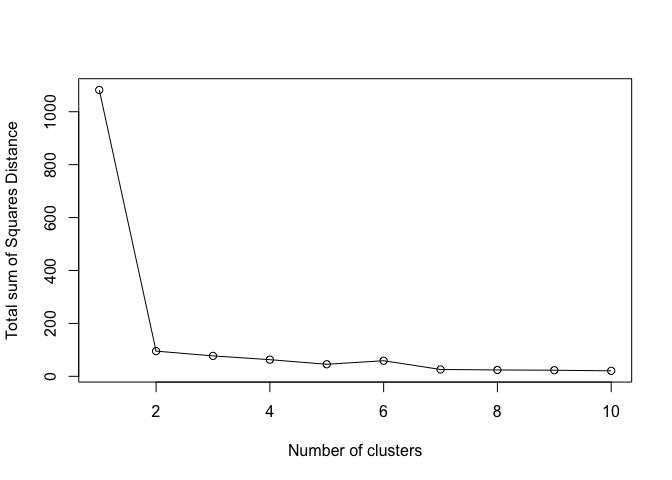
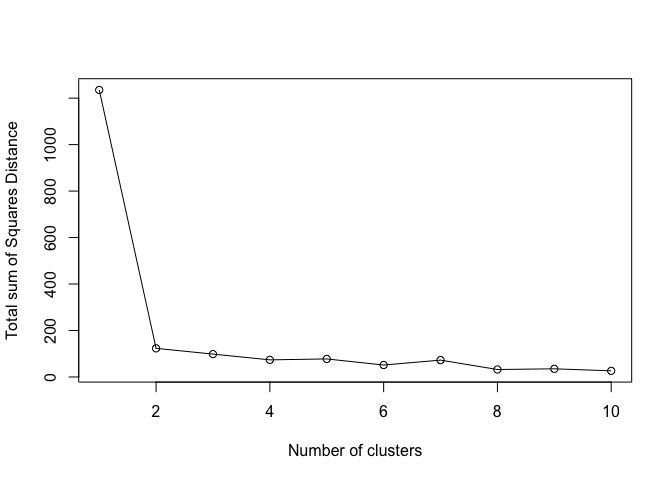
Add some GFM for Github

diff --git a/class07/class07.md b/class07/class07.md
@@ -63,16 +63,16 @@ km
 
     Cluster means:
               x         y
-    1  2.936122 -2.799761
-    2 -2.799761  2.936122
+    1 -2.963111  3.125384
+    2  3.125384 -2.963111
 
     Clustering vector:
-     [1] 2 2 2 2 2 2 2 2 2 2 2 2 2 2 2 2 2 2 2 2 2 2 2 2 2 2 2 2 2 2 1 1 1 1 1 1 1 1
-    [39] 1 1 1 1 1 1 1 1 1 1 1 1 1 1 1 1 1 1 1 1 1 1
+     [1] 1 1 1 1 1 1 1 1 1 1 1 1 1 1 1 1 1 1 1 1 1 1 1 1 1 1 1 1 1 1 2 2 2 2 2 2 2 2
+    [39] 2 2 2 2 2 2 2 2 2 2 2 2 2 2 2 2 2 2 2 2 2 2
 
     Within cluster sum of squares by cluster:
-    [1] 47.62388 47.62388
-     (between_SS / total_SS =  91.2 %)
+    [1] 61.58238 61.58238
+     (between_SS / total_SS =  90.0 %)
 
     Available components:
 
@@ -109,8 +109,8 @@ km$size
 km$cluster
 ```
 
-     [1] 2 2 2 2 2 2 2 2 2 2 2 2 2 2 2 2 2 2 2 2 2 2 2 2 2 2 2 2 2 2 1 1 1 1 1 1 1 1
-    [39] 1 1 1 1 1 1 1 1 1 1 1 1 1 1 1 1 1 1 1 1 1 1
+     [1] 1 1 1 1 1 1 1 1 1 1 1 1 1 1 1 1 1 1 1 1 1 1 1 1 1 1 1 1 1 1 2 2 2 2 2 2 2 2
+    [39] 2 2 2 2 2 2 2 2 2 2 2 2 2 2 2 2 2 2 2 2 2 2
 
 > **Q**. What “component of your result object details cluster center?
 
@@ -119,8 +119,8 @@ km$centers
 ```
 
               x         y
-    1  2.936122 -2.799761
-    2 -2.799761  2.936122
+    1 -2.963111  3.125384
+    2  3.125384 -2.963111
 
 > **Q**. Plot `z` colored by the kmeans cluster assignment and add
 > cluster centers as blue points
@@ -202,8 +202,8 @@ we can *“cut”* the tree to reveal the clustering pattern.
 cutree(hc, h=4)
 ```
 
-     [1] 1 1 1 1 1 1 1 1 1 1 1 1 1 1 1 1 1 1 1 1 1 1 1 1 1 1 1 1 1 1 2 2 2 2 2 2 2 2
-    [39] 2 2 2 2 2 2 2 2 2 2 2 2 2 2 2 2 2 2 2 2 2 2
+     [1] 1 1 1 1 1 2 1 2 1 2 1 1 2 1 1 1 1 1 1 1 2 1 1 1 1 1 1 1 2 2 3 3 4 4 4 4 4 4
+    [39] 4 3 4 4 4 4 4 4 4 3 4 4 3 4 3 4 3 4 4 4 4 4
 
 > Q. Make a plot of `z` with your hclust results (i. e. colored by
 > cluster membership)
